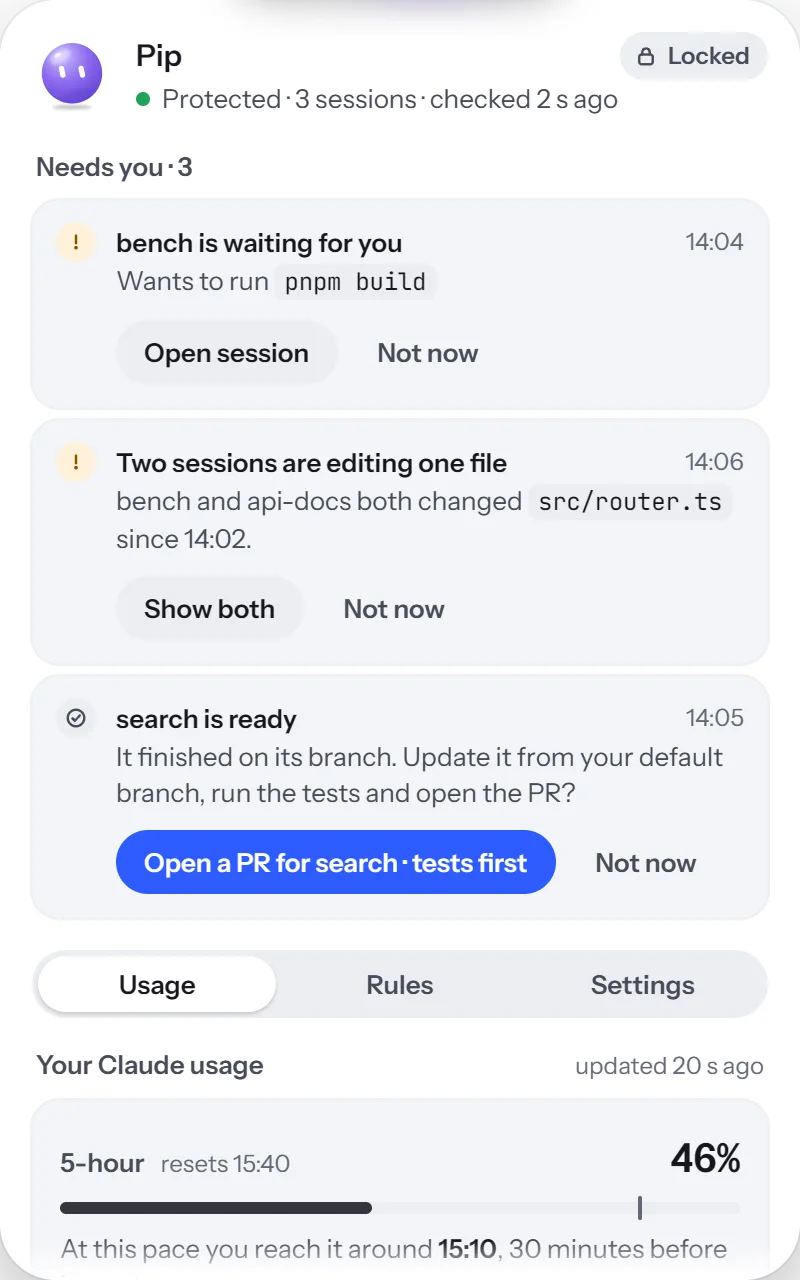
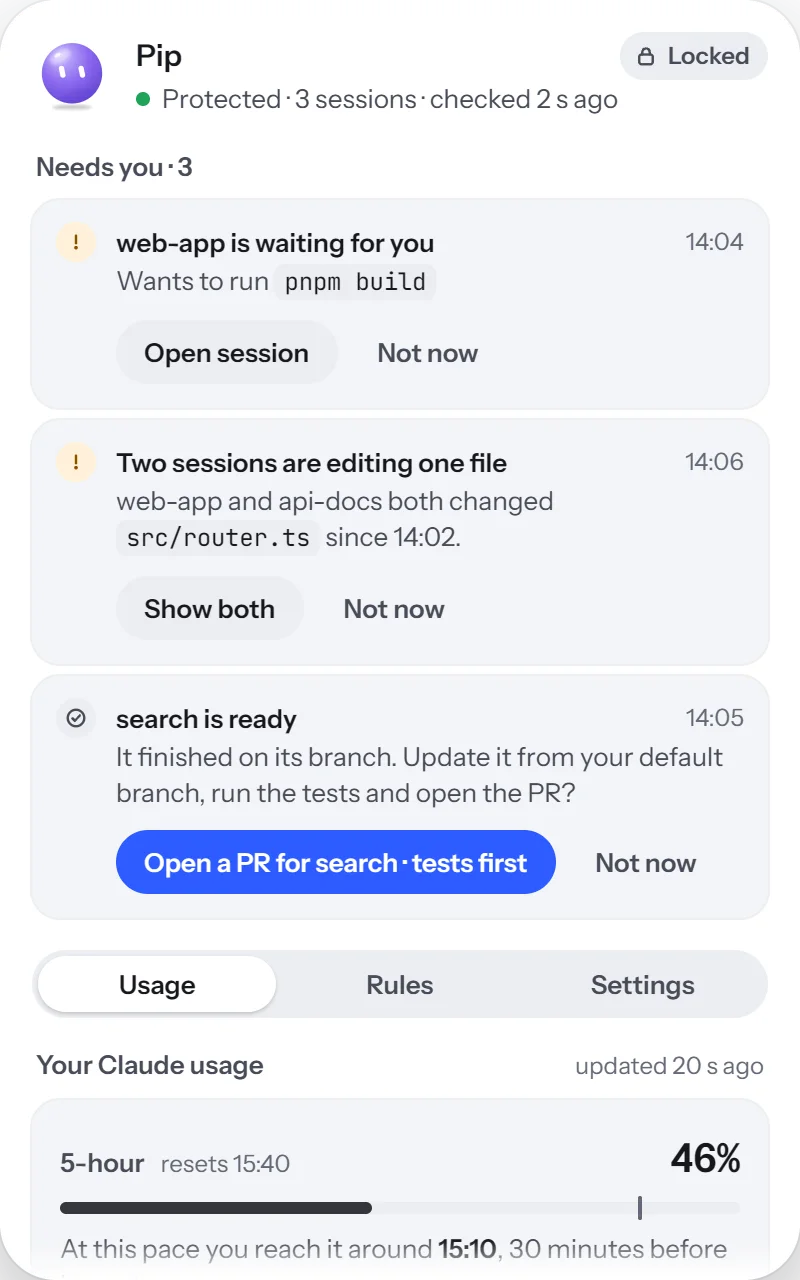
fix(landing): founder review round 4
- Hero: the real panel sits beside the copy, from the top.
- "Two agents writing in the same file"; the same-file tab says agents and what it prevents.
- The four limits are named wherever they appear (deletes, pushes, sends and payments), never "the four limits" alone.
- No codename: the sample project is web-app on the page and in every capture (capture script renames it).
- The supervisor is introduced before the privacy line; "Pip" is no longer explained; the repeated "never approves a tool call" line is cut.
- The founders' card capture is removed (the price text already says it); the unsigned-build item is removed.

diff --git a/apps/landing/public/index.html b/apps/landing/public/index.html
@@ -40,8 +40,8 @@
     <span class="beam" aria-hidden="true"><i></i></span>
   </button>
   <div class="peek" id="live-peek" data-peek hidden>
-    <p class="pk-item"><span class="pk-glyph" aria-hidden="true">!</span><span><b>bench is waiting for you</b><span class="pk-sub">wants to run <code>pnpm build</code></span></span></p>
-    <p class="pk-item"><span class="pk-glyph" aria-hidden="true">!</span><span><b>Two sessions are editing one file</b><span class="pk-sub">bench and api-docs · <code>src/router.ts</code></span></span></p>
+    <p class="pk-item"><span class="pk-glyph" aria-hidden="true">!</span><span><b>web-app is waiting for you</b><span class="pk-sub">wants to run <code>pnpm build</code></span></span></p>
+    <p class="pk-item"><span class="pk-glyph" aria-hidden="true">!</span><span><b>Two sessions are editing one file</b><span class="pk-sub">web-app and api-docs · <code>src/router.ts</code></span></span></p>
     <p class="pk-foot"><span><i class="ok-dot" aria-hidden="true"></i>Protected · 3 sessions</span><a href="#join">Join the waitlist ›</a></p>
   </div>
 </div>
@@ -82,7 +82,7 @@
   <div class="hero-stage" data-shutter>
     <div class="screen-edge" aria-hidden="true"><span class="mini-notch"><i></i><i></i><b>3</b></span></div>
     <picture class="hero-panel">
-      <img src="screens/needs-dark.webp" data-dark="screens/needs-dark.webp" data-light="screens/needs-light.webp" width="800" height="1280" fetchpriority="high" decoding="async" alt="The Eucas panel under the notch. Pip: protected, 3 sessions, checked 2 seconds ago. Needs you, 3: bench is waiting for you and wants to run pnpm build; two sessions are editing one file, src/router.ts; search is ready, open a PR for search with the tests first.">
+      <img src="screens/needs-dark.webp" data-dark="screens/needs-dark.webp" data-light="screens/needs-light.webp" width="800" height="1280" fetchpriority="high" decoding="async" alt="The Eucas panel under the notch. Pip: protected, 3 sessions, checked 2 seconds ago. Needs you, 3: web-app is waiting for you and wants to run pnpm build; two sessions are editing one file, src/router.ts; search is ready, open a PR for search with the tests first.">
     </picture>
   </div>
 </section>
@@ -94,7 +94,7 @@
     <li data-rise><p class="pain">Waiting for your yes since minute two.</p><p class="fix">You see it the second a session stops.</p></li>
     <li data-rise><p class="pain">One delete you didn't read.</p><p class="fix">It can't happen without you.</p></li>
     <li data-rise><p class="pain">Your limit, hit with the task half done.</p><p class="fix">You see when you'll run out, with time to spare.</p></li>
-    <li data-rise><p class="pain">Two sessions, one file.</p><p class="fix">You're warned before one overwrites the other.</p></li>
+    <li data-rise><p class="pain">Two agents writing in the same file.</p><p class="fix">You're warned before one overwrites the other.</p></li>
   </ul>
 </section>
 
@@ -160,8 +160,8 @@
     </li>
     <li class="band" data-band="honey">
       <div class="wrap band-in">
-        <div><p class="band-say">Let pnpm test run in bench</p><p class="band-then">It runs code from the repo, so the rule stays in bench and nowhere else.</p></div>
-        <button type="button" class="switch" role="switch" aria-checked="true" aria-label="Let pnpm test run in bench"><i></i></button>
+        <div><p class="band-say">Let the tests run in web-app</p><p class="band-then">They run code from the repo, so the rule stays in that one project.</p></div>
+        <button type="button" class="switch" role="switch" aria-checked="true" aria-label="Let the tests run in web-app"><i></i></button>
       </div>
     </li>
     <li class="band" data-band="aqua">
@@ -172,8 +172,8 @@
     </li>
     <li class="band band-locked" data-band="ink">
       <div class="wrap band-in">
-        <div><p class="band-say">The four limits</p><p class="band-then" data-locked-text>Locked. No rule can switch them off.</p></div>
-        <button type="button" class="switch" role="switch" aria-checked="true" aria-disabled="true" aria-label="The four limits. Locked." data-locked><i><svg viewBox="0 0 16 16" aria-hidden="true"><rect x="3.5" y="7" width="9" height="6.5" rx="1.5"/><path d="M5.5 7V5.2a2.5 2.5 0 0 1 5 0V7"/></svg></i></button>
+        <div><p class="band-say">Deletes, pushes, sends and payments</p><p class="band-then" data-locked-text>Always ask you. No rule can switch this off.</p></div>
+        <button type="button" class="switch" role="switch" aria-checked="true" aria-disabled="true" aria-label="Deletes, pushes, sends and payments always ask you. Locked." data-locked><i><svg viewBox="0 0 16 16" aria-hidden="true"><rect x="3.5" y="7" width="9" height="6.5" rx="1.5"/><path d="M5.5 7V5.2a2.5 2.5 0 0 1 5 0V7"/></svg></i></button>
       </div>
     </li>
   </ul>
@@ -183,18 +183,17 @@
 <section class="sent wrap" id="sent" data-state="focused" aria-labelledby="sent-title">
   <div class="sent-copy">
     <h2 id="sent-title" data-rise>What leaves your PC, word for word.</h2>
-    <p class="statement" data-rise>Your Euca is called Pip here; you name yours.</p>
-    <p class="statement" data-rise>When Pip isn't sure, it sends the waiting session's last message, trimmed and with code, paths and secrets removed, to the supervisor. Nothing else about your work leaves this PC. Your account holds only your email, your plan and how much supervisor help you've used.</p>
+    <p class="statement" data-rise>Eucas has a supervisor: an AI model that keeps stopped sessions going within your rules, so fewer of them wait for you.</p>
+    <p class="statement" data-rise>When Eucas isn't sure, it sends the waiting session's last message, trimmed and with code, paths and secrets removed, to the supervisor. Nothing else about your work leaves this PC. Your account holds only your email, your plan and how much supervisor help you've used.</p>
   </div>
   <div class="sent-side">
     <figure class="sent-shot" data-rise>
       <div class="screen-edge" aria-hidden="true"><span class="mini-notch mini-focused"><i></i><i></i></span></div>
-      <img src="screens/sent-dark.webp" data-dark="screens/sent-dark.webp" data-light="screens/sent-light.webp" width="1240" height="358" loading="lazy" decoding="async" alt="From your last session, bench, today 13:52, marked Yours, redacted: I need the API key to run the payment test. Should I read [path removed] to get it, or hard-code [secret removed] in [path removed] for now? I changed the client too: [6 lines of code removed]. Which do you… Removed 6 lines of code, 2 paths, 1 secret; trimmed from 1,830 to 240 characters. Goes to the supervisor: an open model hosted with zero data retention.">
+      <img src="screens/sent-dark.webp" data-dark="screens/sent-dark.webp" data-light="screens/sent-light.webp" width="1240" height="358" loading="lazy" decoding="async" alt="From your last session, web-app, today 13:52, marked Yours, redacted: I need the API key to run the payment test. Should I read [path removed] to get it, or hard-code [secret removed] in [path removed] for now? I changed the client too: [6 lines of code removed]. Which do you… Removed 6 lines of code, 2 paths, 1 secret; trimmed from 1,830 to 240 characters. Goes to the supervisor: an open model hosted with zero data retention.">
       <figcaption>Setup shows you this with a message from your own sessions. Settings always shows it too.</figcaption>
     </figure>
     <ul class="facts" data-rise>
       <li><b>The supervisor is always on and can't be switched off.</b></li>
-      <li><b>It never approves a tool call.</b> It can nudge a stopped session on, answer from your rules, or ask you.</li>
     </ul>
   </div>
 </section>
@@ -205,7 +204,7 @@
     <h2 id="pricing-title" data-rise>Free, or Pro.</h2>
     <p data-rise><b>Free</b>, with no card:</p>
     <ul class="lines" data-rise>
-      <li>The four limits, locked</li>
+      <li>Deletes, pushes, sends and payments always ask you first</li>
       <li>A stop when a session deletes files in bulk</li>
       <li>Your rules, and where your usage went</li>
       <li>The supervisor in full for 14 days, then a little every month</li>
@@ -214,9 +213,6 @@
   </div>
   <div class="pro">
     <p class="price" data-rise><span class="cur">$</span>20<span class="per">/month</span></p>
-    <figure class="founders" data-rise>
-      <img src="screens/founders-dark.webp" data-dark="screens/founders-dark.webp" data-light="screens/founders-light.webp" width="736" height="250" loading="lazy" decoding="async" alt="The plan card in Settings: Pro, Founders' price, $15/month for life. Renews 26 Nov. The price stays yours for as long as you keep Pro.">
-    </figure>
     <ul class="lines" data-rise>
       <li>Everything in Free</li>
       <li>Much more supervisor help every month</li>
@@ -234,7 +230,6 @@
     <div><dt>Windows and Claude Code, for now</dt><dd>Sessions in a terminal, the desktop app or VS Code. What comes next depends on the waitlist's answers.</dd></div>
     <div><dt>Your Claude login stays yours</dt><dd>Eucas never sees or stores it.</dd></div>
     <div><dt>A Eucas account, by email</dt><dd>You sign in with your email and a 6-digit code, no password.</dd></div>
-    <div><dt>The first build is unsigned</dt><dd>Windows will say "Unknown publisher". Each installer's SHA-256 is published so you can check it.</dd></div>
   </dl>
 </section>
 

diff --git a/apps/landing/public/styles.css b/apps/landing/public/styles.css
@@ -219,14 +219,16 @@ h3 { font-size: var(--t-m); font-weight: 600; letter-spacing: -0.015em; line-hei
 .mini-notch b { display: grid; place-items: center; min-width: 18px; height: 18px; padding: 0 5px; border-radius: 9px; background: var(--marker-attn); color: #161616; font-size: 11px; font-weight: 600; }
 
 /* ---------- Hero ---------- */
-.hero { position: relative; min-height: max(780px, 100svh); padding-bottom: 0; overflow: hidden; }
-.hero-copy { padding-top: clamp(96px, 12vh, 150px); position: relative; z-index: 2; }
-.hero h1 { max-width: 16ch; }
+.hero { position: relative; min-height: 700px; padding-bottom: 64px; overflow: hidden; }
+/* the copy keeps the left half; the screen with the real panel sits beside it, from the top */
+.hero-copy { padding-top: clamp(72px, 10vh, 120px); position: relative; z-index: 2; }
+.hero-copy > * { max-width: min(600px, 44vw); }
+.hero h1 { font-size: clamp(48px, 5vw, 80px); }
 .lede { max-width: 31ch; margin-top: 36px; font-size: var(--t-m); line-height: 1.4; letter-spacing: -0.01em; }
 .hero-actions { margin-top: 40px; display: flex; flex-direction: column; align-items: flex-start; gap: 16px; }
 .hero-note { color: var(--muted); font-size: var(--t-s); }
 .hero-stage {
-  position: absolute; left: max(46%, calc(50% - 40px)); right: 0; top: 43%; bottom: 0;
+  position: absolute; left: 52%; right: 0; top: 40px; height: 640px;
   background: var(--stage); border-radius: 0 0 0 0;
   display: flex; justify-content: center; overflow: hidden;
 }
@@ -332,16 +334,12 @@ h3 { font-size: var(--t-m); font-weight: 600; letter-spacing: -0.015em; line-hei
 .price { font-size: clamp(132px, 17vw, 248px); font-weight: 600; letter-spacing: -0.06em; line-height: 0.85; font-variant-numeric: tabular-nums; }
 .price .cur { font-size: 0.5em; vertical-align: 0.62em; margin-right: 0.04em; }
 .price .per { font-size: 20px; letter-spacing: 0; margin-left: 12px; font-weight: 400; color: var(--muted); }
-.founders { position: absolute; top: -10%; right: 0; width: min(368px, 52%); border-radius: 14px; overflow: hidden; }
-.founders img { border-radius: 12px; }
-/* the card is white in light mode; a tone step lets it stand off the light ground */
-:root[data-theme="light"] .founders { padding: 8px; background: var(--sunken); border-radius: 18px; }
 .pro .lines { margin-top: 44px; }
 
 /* ---------- Before you install ---------- */
 .know { margin-top: var(--gap-section); display: grid; grid-template-columns: 4fr 8fr; gap: clamp(32px, 5vw, 80px); }
 .know h2 { max-width: 8ch; }
-.know-list { display: grid; grid-template-columns: 1fr 1fr; gap: 40px 48px; }
+.know-list { display: grid; grid-template-columns: repeat(3, 1fr); gap: 40px 40px; }
 .know-list dt { font-size: var(--t-b); font-weight: 600; letter-spacing: -0.01em; }
 .know-list dt::before { content: ""; display: block; width: 30px; height: 12px; margin-bottom: 14px; background: var(--ink); border-radius: 0 0 6px 6px; }
 .know-list dd { margin-top: 6px; color: var(--muted); font-size: 17px; }
@@ -449,6 +447,8 @@ h3 { font-size: var(--t-m); font-weight: 600; letter-spacing: -0.015em; line-hei
   .hero h1 { font-size: clamp(36px, 10vw, 64px); }
   .lede { font-size: 19px; margin-top: 24px; }
   .hero-actions { margin-top: 28px; }
+  .hero-copy > * { max-width: none; }
+  .hero { padding-bottom: 0; }
   .hero-stage { position: relative; left: auto; top: auto; margin-top: 48px; height: 520px; }
   .hero-panel { width: min(400px, calc(100vw - 32px)); }
   .hero-panel img { width: 100%; }
@@ -470,7 +470,6 @@ h3 { font-size: var(--t-m); font-weight: 600; letter-spacing: -0.015em; line-hei
   .sent-shot { padding: 52px 12px 20px; }
   .pricing { grid-template-columns: 1fr; min-height: 0; gap: 152px; }
   .price { font-size: 34vw; }
-  .founders { position: static; width: 100%; max-width: 368px; margin-top: 24px; transform: none; }
   .btn { width: 100%; }
   .nav .btn { width: auto; }
   .know { grid-template-columns: 1fr; gap: 32px; }

diff --git a/apps/landing/public/main.js b/apps/landing/public/main.js
@@ -115,13 +115,13 @@
   // The panel's own tabs pick the screen on the plate.
   const SHOW = {
     needs: ["Know which session needs you.", "One glance at the top of your screen. Hover for a peek, click for the panel. Nothing pops up and nothing steals your focus.", "needs",
-      "The panel. Needs you, 3: bench is waiting for you and wants to run pnpm build; two sessions are editing one file; search is ready, open a PR for search with the tests first."],
+      "The panel. Needs you, 3: web-app is waiting for you and wants to run pnpm build; two sessions are editing one file; search is ready, open a PR for search with the tests first."],
     usage: ["See your limit coming.", "Your 5-hour and weekly usage, the time you'll hit the limit at today's pace, and which projects used it.", "usage",
       "The Usage tab: the 5-hour window at 46 percent, resetting at 15:40, with a forecast of when you reach it; the week at 62 percent; where it went by project."],
-    same: ["Two sessions, one file.", "When a second session edits a file another one just changed, both show up side by side, one click apart.", "same-file",
-      "Two sessions are editing one file: bench and api-docs both changed src/router.ts since 14:02. Show both."],
-    rules: ["Stop approving the same thing.", "Rules say once what your sessions may do. The four limits stay locked.", "rules",
-      "The Rules tab: the four limits locked, and your rules with switches, such as allow pnpm test in bench."],
+    same: ["Two agents, one file.", "When a second agent edits a file another one just changed, you see both before one overwrites the other's work.", "same-file",
+      "Two sessions are editing one file: web-app and api-docs both changed src/router.ts since 14:02. Show both."],
+    rules: ["Stop approving the same thing.", "Say once what your sessions may do. Deletes, pushes, sends and payments still ask you.", "rules",
+      "The Rules tab: the four limits locked, and your rules with switches, such as allow pnpm test in web-app."],
   };
   const tabs = $$("[data-show]");
   const showImg = $("[data-show-img]");
